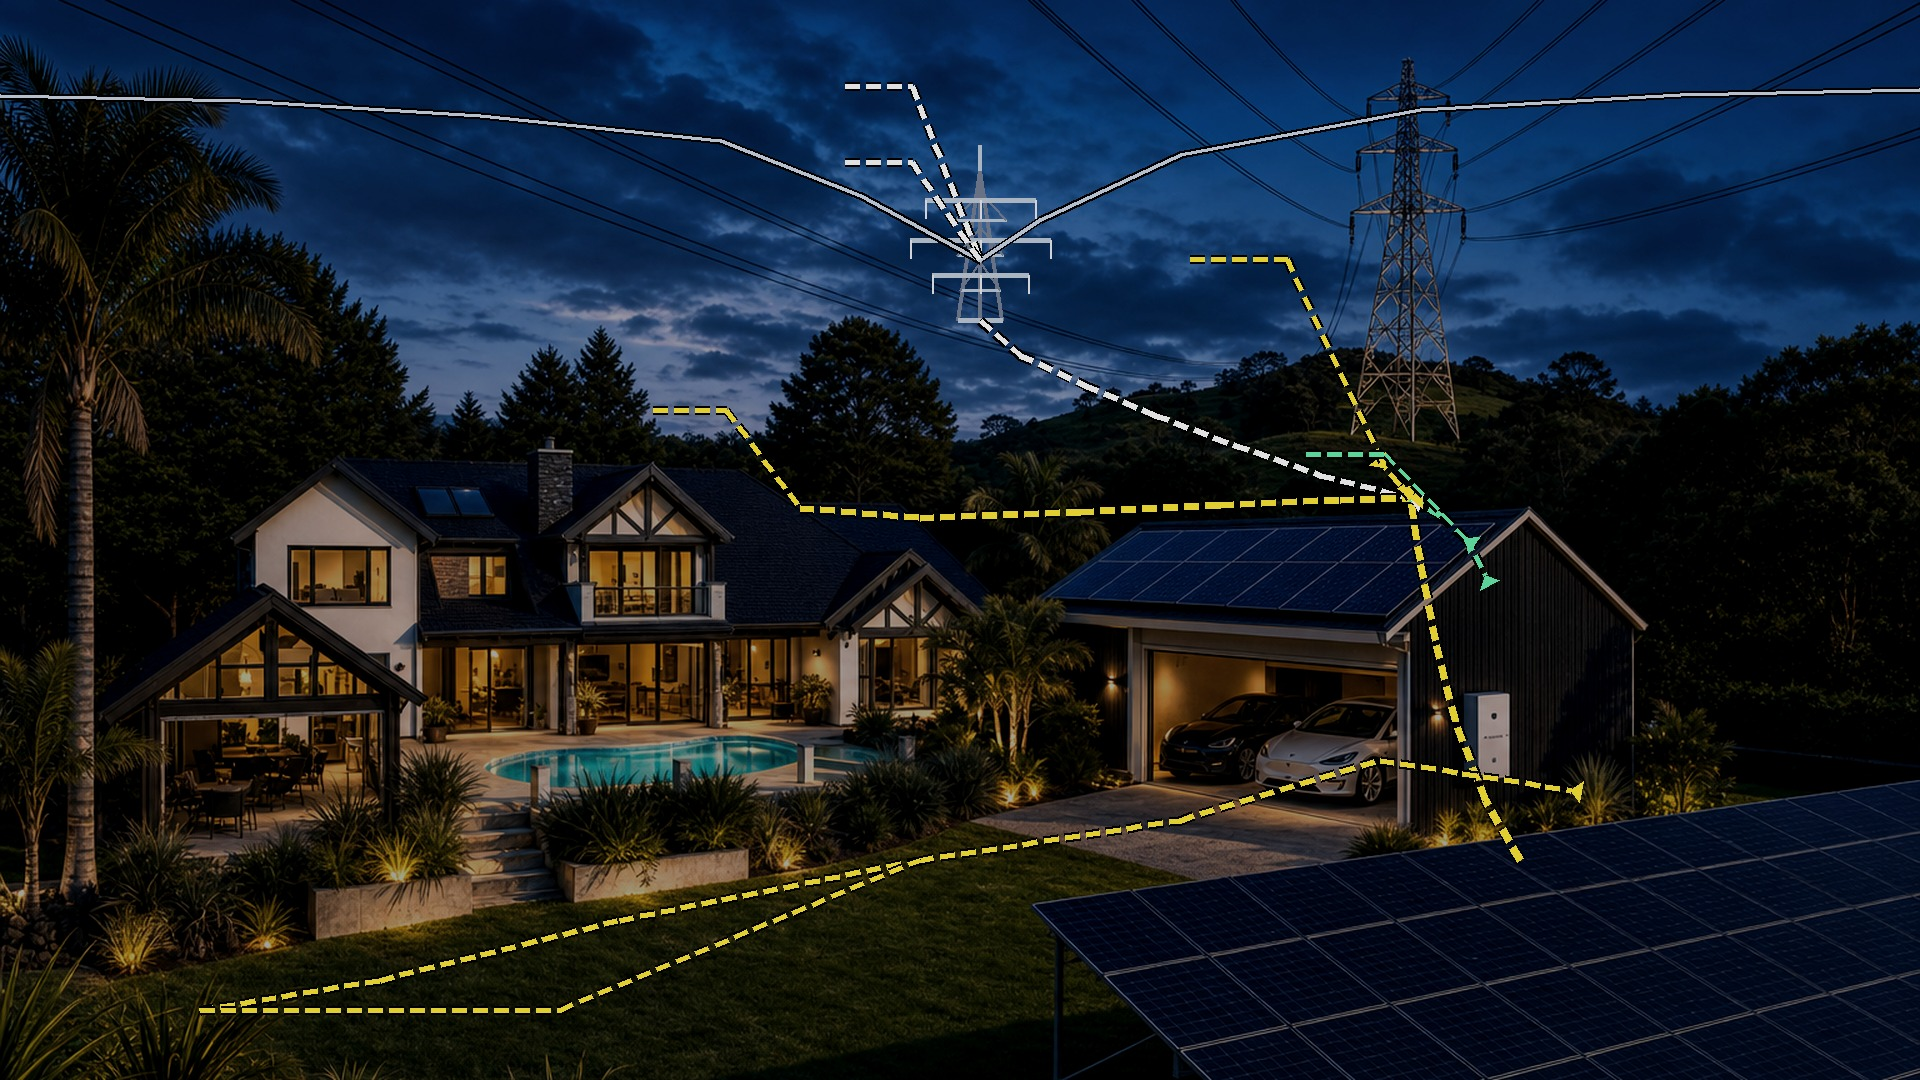
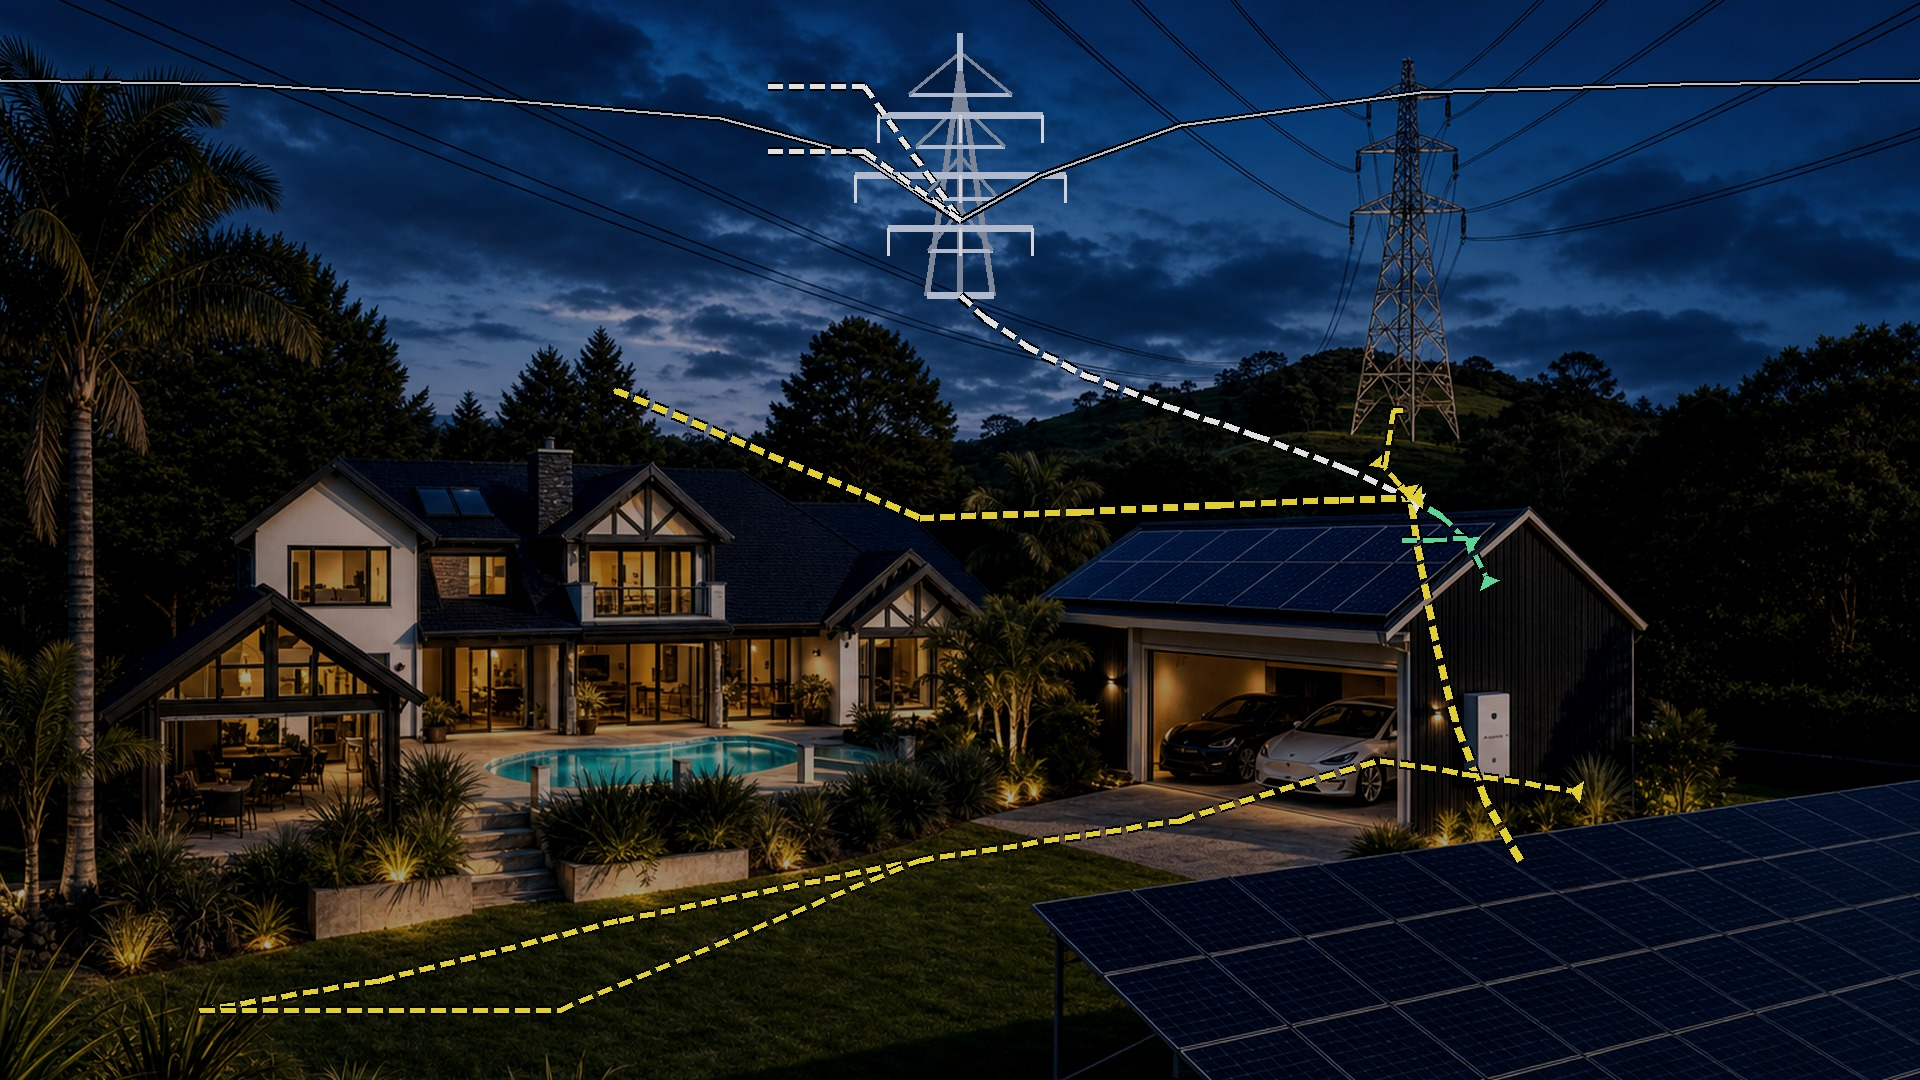
Place pylon on distant hill and move garage cards to 73%.
Scale lattice tower 1.5x with brighter steel, converge HV lines at hill apex, and align battery/garage cards with garage end of property.

diff --git a/home-assistant/solar-dashboard/scripts/build_v4_backgrounds.py b/home-assistant/solar-dashboard/scripts/build_v4_backgrounds.py
@@ -15,21 +15,21 @@ OUT = ROOT / "www" / "solar-dashboard" / "backgrounds" / "v4"
 SIZE = (1920, 1080)
 
 SITE = {
-    "pylon": (980, 260),
-    "pylon_base": (980, 320),
+    "pylon": (960, 220),
+    "pylon_base": (960, 295),
     "inverter": (1410, 498),
     "battery_wall": (1385, 468),
     "ev_charger": (1465, 538),
     "array_field": (1570, 790),
-    "house_tie": (800, 508),
+    "house_tie": (615, 390),
 }
 
 CARD_STUBS = {
-    "grid": ((845, 86), "pylon"),
-    "grid_details": ((845, 162), "pylon"),
-    "home": ((653, 410), "house_tie"),
-    "battery": ((1190, 259), "battery_wall"),
-    "garage": ((1306, 454), "ev_charger"),
+    "grid": ((768, 86), "pylon"),
+    "grid_details": ((768, 151), "pylon"),
+    "home": ((614, 389), "house_tie"),
+    "battery": ((1402, 410), "battery_wall"),
+    "garage": ((1402, 540), "ev_charger"),
     "solar_array": ((200, 1010), "array_field"),
 }
 
@@ -53,11 +53,12 @@ ROUTES = {
     ],
     "grid_pylon_to_inverter": [
         SITE["pylon_base"],
-        (1020, 355),
-        (1085, 385),
-        (1155, 415),
-        (1235, 445),
-        (1320, 475),
+        (985, 318),
+        (1025, 345),
+        (1085, 375),
+        (1165, 405),
+        (1255, 435),
+        (1345, 468),
         SITE["inverter"],
     ],
     "house_to_inverter": [
@@ -74,8 +75,8 @@ ROUTES = {
 }
 
 HV_LINES = {
-    "from_left": [(0, 95), (240, 100), (480, 115), (720, 140), (860, 195), SITE["pylon"]],
-    "from_right": [(1919, 90), (1680, 95), (1420, 110), (1180, 155), (1040, 220), SITE["pylon"]],
+    "from_left": [(0, 80), (240, 84), (480, 98), (720, 118), (860, 155), (920, 195), SITE["pylon"]],
+    "from_right": [(1919, 80), (1680, 84), (1420, 92), (1180, 125), (1040, 175), SITE["pylon"]],
 }
 
 
@@ -103,32 +104,40 @@ def darken_master(img: Image.Image) -> Image.Image:
 
 def draw_lattice_pylon(draw: ImageDraw.ImageDraw, cx: int, base_y: int) -> None:
     """Draw visible lattice transmission tower (reference-style) on the hill."""
-    top = base_y - 175
-    steel = (195, 205, 220, 255)
-    steel_dark = (120, 130, 150, 255)
+    s = 1.5
+    top = base_y - int(175 * s)
+    steel = (200, 212, 232, 255)  # #c8d4e8
+    steel_dark = (140, 152, 172, 255)
     insulator = (240, 240, 245, 255)
+    leg = int(22 * s)
+    peak_off = int(25 * s)
 
     # Main legs (A-frame)
-    for dx in (-22, 0, 22):
-        draw.line([(cx + dx, base_y), (cx, top + 25)], fill=steel_dark, width=4)
-    draw.line([(cx - 22, base_y), (cx + 22, base_y)], fill=steel, width=5)
+    for dx in (-leg, 0, leg):
+        draw.line([(cx + dx, base_y), (cx, top + peak_off)], fill=steel_dark, width=int(4 * s))
+    draw.line([(cx - leg, base_y), (cx + leg, base_y)], fill=steel, width=int(5 * s))
 
     # Cross-bracing
-    for y in range(base_y - 30, top + 40, -35):
-        w = int(18 + (base_y - y) * 0.08)
-        draw.line([(cx - w, y), (cx + w, y)], fill=steel, width=3)
-        draw.line([(cx - w, y), (cx, y - 28)], fill=steel_dark, width=2)
-        draw.line([(cx + w, y), (cx, y - 28)], fill=steel_dark, width=2)
+    brace_step = int(35 * s)
+    for y in range(base_y - int(30 * s), top + int(40 * s), -brace_step):
+        w = int((18 + (base_y - y) * 0.08) * s)
+        draw.line([(cx - w, y), (cx + w, y)], fill=steel, width=int(3 * s))
+        draw.line([(cx - w, y), (cx, y - int(28 * s))], fill=steel_dark, width=int(2 * s))
+        draw.line([(cx + w, y), (cx, y - int(28 * s))], fill=steel_dark, width=int(2 * s))
 
     # Three cross-arms with insulators
-    for arm_y, arm_w in ((top + 55, 55), (top + 95, 70), (top + 130, 48)):
-        draw.line([(cx - arm_w, arm_y), (cx + arm_w, arm_y)], fill=steel, width=5)
+    for arm_y, arm_w in (
+        (top + int(55 * s), int(55 * s)),
+        (top + int(95 * s), int(70 * s)),
+        (top + int(130 * s), int(48 * s)),
+    ):
+        draw.line([(cx - arm_w, arm_y), (cx + arm_w, arm_y)], fill=steel, width=int(5 * s))
         for ax in (cx - arm_w, cx, cx + arm_w):
-            for iy in range(arm_y, arm_y + 22, 6):
-                draw.line([(ax, arm_y), (ax, iy)], fill=insulator, width=2)
+            for iy in range(arm_y, arm_y + int(22 * s), int(6 * s)):
+                draw.line([(ax, arm_y), (ax, iy)], fill=insulator, width=int(2 * s))
 
     # Peak
-    draw.line([(cx, top + 25), (cx, top)], fill=steel, width=4)
+    draw.line([(cx, top + peak_off), (cx, top)], fill=steel, width=int(4 * s))
 
 
 def glow_polyline(
@@ -207,8 +216,8 @@ def draw_overlays(base: Image.Image) -> Image.Image:
     hv_line = "#d0d8e8"
 
     # HV transmission (solid, visible from distance)
-    glow_polyline(draw, HV_LINES["from_left"], hv_line, 4, dashed=False)
-    glow_polyline(draw, HV_LINES["from_right"], hv_line, 4, dashed=False)
+    glow_polyline(draw, HV_LINES["from_left"], hv_line, 3, dashed=False)
+    glow_polyline(draw, HV_LINES["from_right"], hv_line, 3, dashed=False)
 
     # Site energy flow (dashed, thick)
     glow_polyline(draw, ROUTES["grid_pylon_to_inverter"], white, 6, dashed=True)
